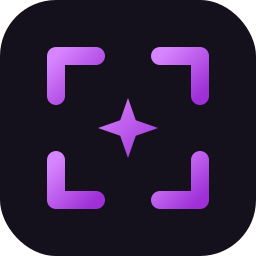
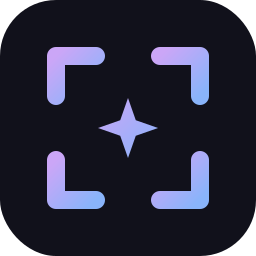
style: changed some colors

diff --git a/src/theme.rs b/src/theme.rs
@@ -67,6 +67,7 @@ impl From<Rgba> for Color {
 pub mod color {
     use super::Rgba;
 
+
     /// background color of all panels, popovers and toasts
     pub fn panel() -> Rgba {
         crate::config::get().theme.panel_background
@@ -80,25 +81,28 @@ pub mod color {
         crate::config::get().theme.accent_bright
     }
     /// main color of elements on the panel, like text, seperators and etc
-    pub const ON_PANEL: Rgba = Rgba(255, 255, 255, 255);
+    pub const ON_PANEL: Rgba = Rgba(205, 214, 244, 255); // text
     /// secondary small labels
-    pub const MUTED: Rgba = Rgba(200, 200, 205, 160);
+    pub const MUTED: Rgba = Rgba(166, 173, 200, 255); // subtext0
 
     /// blue color of text selection
     pub fn select() -> Rgba {
         crate::config::get().theme.selection
     }
     /// input field
-    pub const FIELD_BG: Rgba = Rgba(255, 255, 255, 18);
+    pub const FIELD_BG: Rgba = Rgba(49, 50, 68, 255); // surface0
     /// empty part of downloading bar
-    pub const TRACK: Rgba = Rgba(255, 255, 255, 30);
-    pub const CARET: Rgba = Rgba(255, 255, 255, 220);
+    pub const TRACK: Rgba = Rgba(69, 71, 90, 255); // surface1
+    pub const CARET: Rgba = Rgba(245, 224, 220, 255); // rosewater
 
-    pub const SHADOW: Rgba = Rgba(0, 0, 0, 130);
+    pub const SHADOW: Rgba = Rgba(17, 17, 27, 130); // crust
 
     /// panels border
-    pub const BORDER_ON_DARK: Rgba = Rgba(255, 255, 255, 55);
-    pub const BORDER_ON_LIGHT: Rgba = Rgba(0, 0, 0, 55);
+    pub const BORDER_ON_DARK: Rgba = Rgba(69, 71, 90, 255); // surface1
+    pub const BORDER_ON_LIGHT: Rgba = Rgba(17, 17, 27, 55); // crust
+
+    /// dimming outside the selection, alpha comes from `general.dim_alpha`
+    pub const DIM: Rgba = Rgba(17, 17, 27, 255); // crust
 }
 
 // ==========================================

diff --git a/src/config.rs b/src/config.rs
@@ -150,10 +150,10 @@ pub struct Theme {
 impl Default for Theme {
     fn default() -> Self {
         Self {
-            accent: Rgba(159, 48, 215, 255),
-            accent_bright: Rgba(215, 132, 255, 255),
-            panel_background: Rgba(17, 17, 27, 250),
-            selection: Rgba(100, 150, 255, 110),
+            accent: Rgba(180, 190, 254, 255),
+            accent_bright: Rgba(203, 166, 247, 255),
+            panel_background: Rgba(30, 30, 46, 250),
+            selection: Rgba(137, 180, 250, 110),
             font_size: 14.0,
         }
     }
@@ -255,10 +255,11 @@ device = \"auto\"
 daemon_idle_secs = 900
 
 [theme]
-accent = \"#9F30D7\"
-accent_bright = \"#D784FF\"
-panel_background = \"#11111BFA\"
-selection = \"#6496FF6E\"
+# Catppuccin Mocha: lavender, mauve, base, blue
+accent = \"#B4BEFE\"
+accent_bright = \"#CBA6F7\"
+panel_background = \"#1E1E2EFA\"
+selection = \"#89B4FA6E\"
 font_size = 14.0
 
 [log]

diff --git a/src/ui/color_popover/state.rs b/src/ui/color_popover/state.rs
@@ -231,10 +231,10 @@ fn default_palette() -> &'static [Color] {
         vec![
             Color::from_rgba8(0, 0, 0, 255),
             Color::from_rgba8(255, 255, 255, 255),
-            Color::from_rgba8(255, 59, 48, 255),
-            Color::from_rgba8(255, 149, 0, 255),
-            Color::from_rgba8(255, 214, 10, 255),
-            Color::from_rgba8(52, 199, 89, 255),
+            Color::from_rgba8(243, 139, 168, 255), // red
+            Color::from_rgba8(250, 179, 135, 255), // peach
+            Color::from_rgba8(249, 226, 175, 255), // yellow
+            Color::from_rgba8(166, 227, 161, 255), // green
             //Color::from_rgba8(0, 122, 255, 255),
             //Color::from_rgba8(175, 82, 222, 255),
         ]

diff --git a/src/ocr/draw.rs b/src/ocr/draw.rs
@@ -27,10 +27,10 @@ use crate::ui::icons;
 /// shade pushes the screenshot back and the plate lifts the text roughly back to
 /// where it started, so the lines read as the foreground without the region ever
 /// getting as dark as the overlay dim outside it.
-const REGION_SHADE: Rgba = Rgba(10, 8, 20, 96);
+const REGION_SHADE: Rgba = Rgba(17, 17, 27, 96); // crust
 
 /// Plate behind a block of text.
-const PLATE: Rgba = Rgba(255, 255, 255, 48);
+const PLATE: Rgba = Rgba(205, 214, 244, 48); // text
 
 /// Grown around a block's own bounds so the plate reads as a box around the
 /// text rather than a tight box on it.

diff --git a/src/ui/magnifier/draw.rs b/src/ui/magnifier/draw.rs
@@ -10,8 +10,8 @@ use tiny_skia::{Color, FillRule, Paint, PathBuilder, Pixmap, PixmapPaint, Rect, 
 // outline of magnifier, and color label if its in color picker mode
 pub const OUTLINE: f32 = 2.0;
 
-pub const GRID: Rgba = Rgba(255, 255, 255, 40);
-pub const GRID_SOFT: Rgba = Rgba(180, 180, 180, 80);
+pub const GRID: Rgba = Rgba(205, 214, 244, 40); // text
+pub const GRID_SOFT: Rgba = Rgba(147, 153, 178, 80); // overlay2
 
 /// if its in color picker mode
 const SWATCH: f32 = 14.0;

diff --git a/src/renderer.rs b/src/renderer.rs
@@ -393,7 +393,7 @@ fn dim_hole_corners(canvas: &mut Pixmap, sel: &Rect, edges: Option<&SelectionEdg
     }
 
     let mut paint = Paint::default();
-    paint.set_color(Color::from_rgba8(0, 0, 0, crate::config::get().general.dim_alpha));
+    paint.set_color(crate::theme::color::DIM.with_alpha(crate::config::get().general.dim_alpha).color());
     paint.anti_alias = true;
 
     // corner point, then the direction the rectangle's interior lies in
